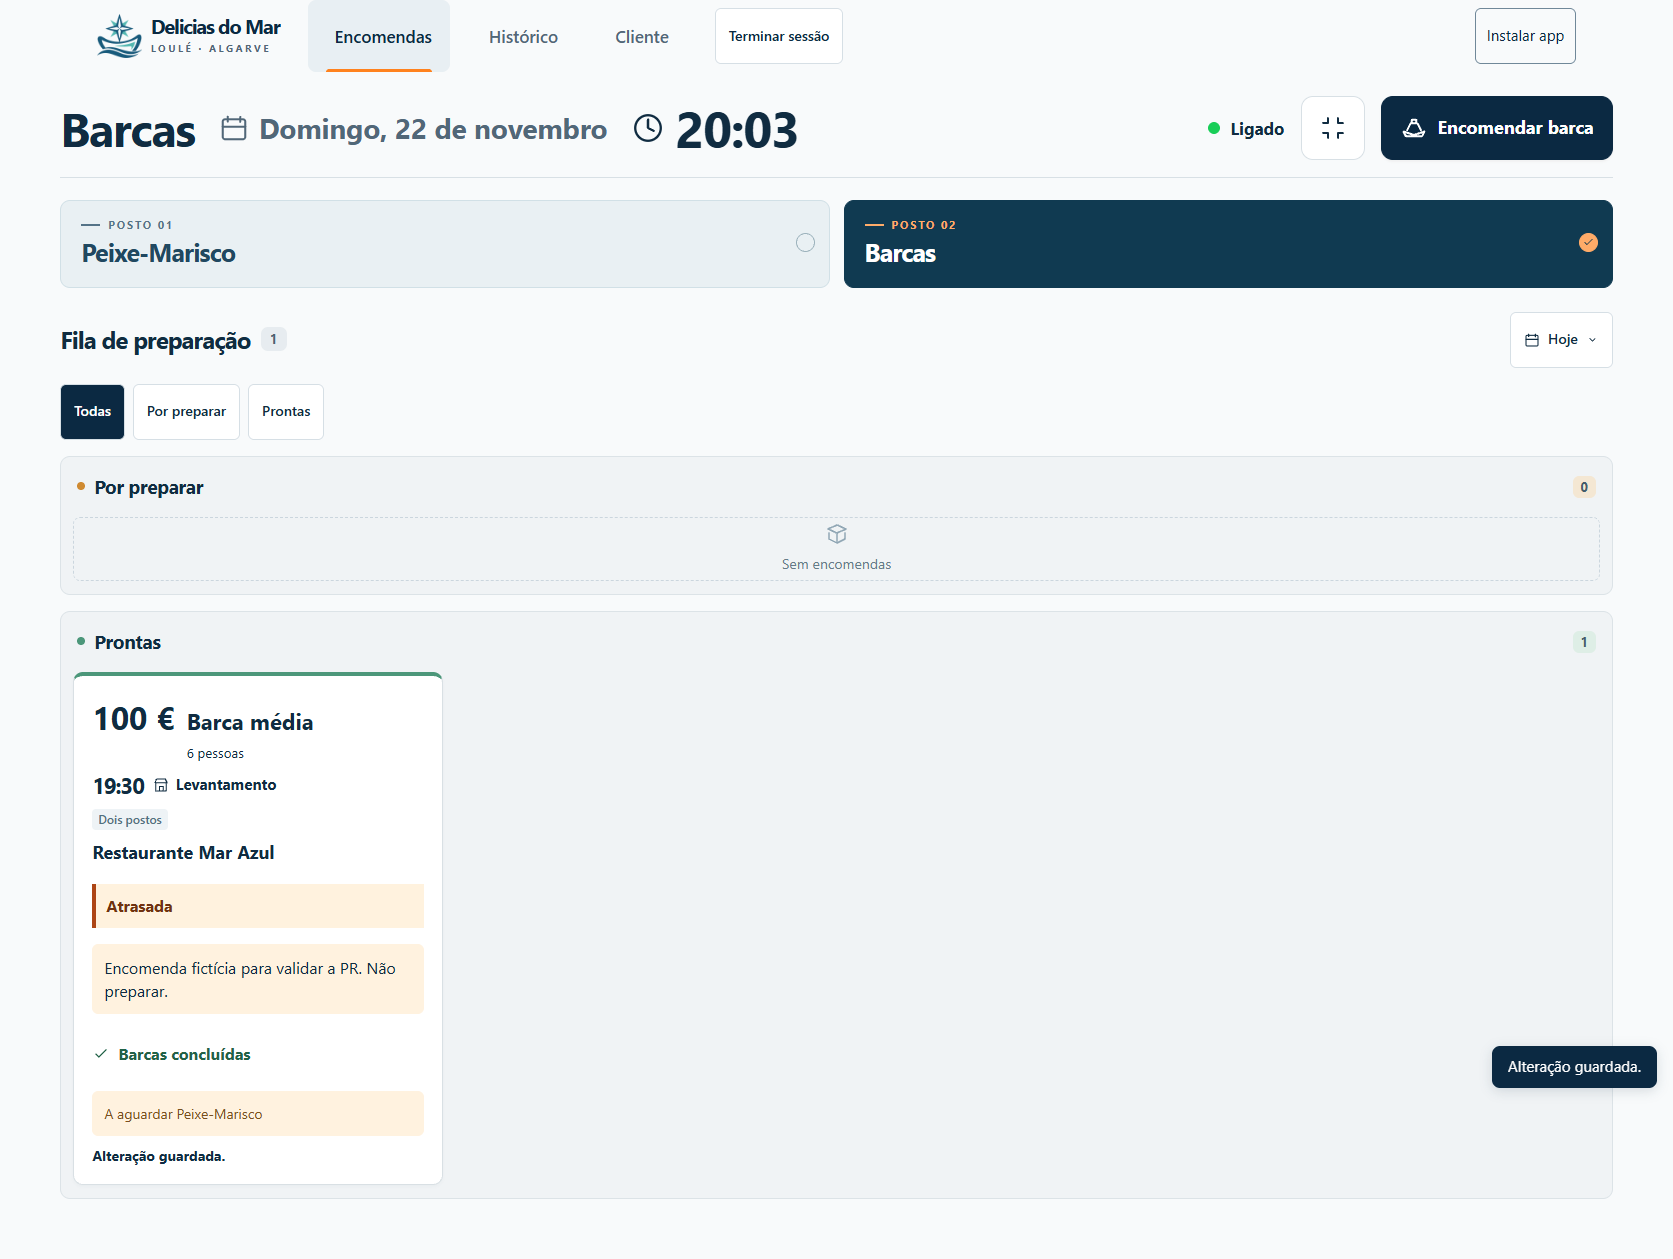
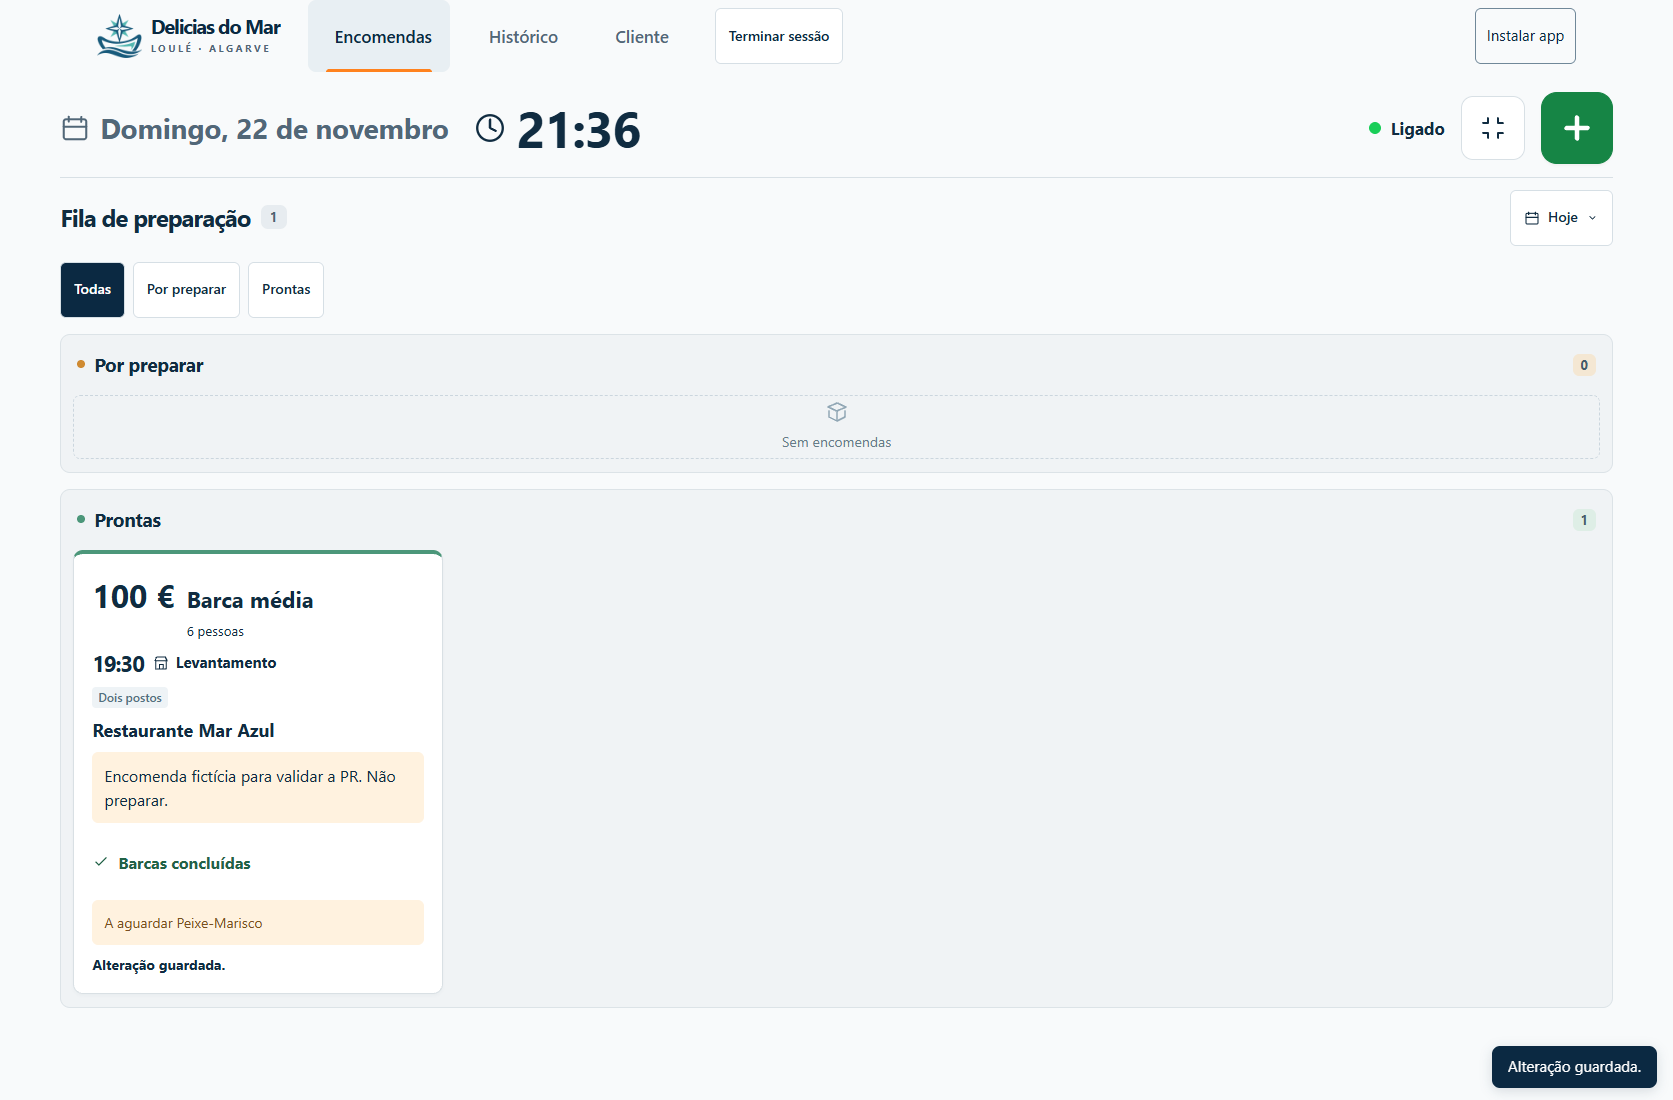
Repor o botão verde de adicionar e simplificar o ecrã inteiro

diff --git a/src/app.js b/src/app.js
@@ -211,7 +211,8 @@ function header(){
  const client=page==="cliente",list=page==="historico";
  const title=client?"Cliente":list?"Histórico":stations[station];
  const boat=!list&&station==="barcas";
- return `<div class="pagehead station-header"><h1>${title}</h1><div class="header-date">${icon("calendar",30)}<span data-today></span></div><div class="header-clock" aria-label="Hora atual em Lisboa">${icon("clock",34)}<time data-clock></time></div><div class="head-actions"><span class="sync" role="status"></span>${!client&&!list?`<button class="btn square" title="${focusMode?"Sair do modo posto":"Modo posto em ecrã inteiro"}" aria-label="${focusMode?"Sair do modo posto":"Modo posto em ecrã inteiro"}" data-act="focus">${icon(focusMode?"shrink":"expand",30)}</button>`:""}${client?"":button(boat?"boat":"bag",boat?"Encomendar barca":"Nova encomenda",boat?"boat-order":"new","primary new-order")}</div></div>`;
+ const newOrderLabel=boat?"Encomendar barca":"Nova encomenda";
+ return `<div class="pagehead station-header">${focusMode?"":`<h1>${title}</h1>`}<div class="header-date">${icon("calendar",30)}<span data-today></span></div><div class="header-clock" aria-label="Hora atual em Lisboa">${icon("clock",34)}<time data-clock></time></div><div class="head-actions"><span class="sync" role="status"></span>${!client&&!list?`<button class="btn square" title="${focusMode?"Sair do modo posto":"Modo posto em ecrã inteiro"}" aria-label="${focusMode?"Sair do modo posto":"Modo posto em ecrã inteiro"}" data-act="focus">${icon(focusMode?"shrink":"expand",30)}</button>`:""}${client?"":`<button type="button" class="btn primary new-order" data-act="${boat?"boat-order":"new"}" aria-label="${newOrderLabel}" title="${newOrderLabel}">${icon("plus",36)}</button>`}</div></div>`;
 }
 function updateClock(){
  const now=new Date();
@@ -298,7 +299,7 @@ function render(){
  document.title=(page==="encomendas"?"Encomendas":page==="cliente"?"Cliente":"Histórico")+" · Delicias do Mar";
  document.querySelectorAll("[data-nav]").forEach(a=>{a.classList.toggle("active",a.dataset.nav===page);if(a.dataset.nav===page)a.setAttribute("aria-current","page");else a.removeAttribute("aria-current");});
  const total=page==="encomendas"?orders.filter(o=>!o.cancelled&&!o.handed&&o.tasks[station]!==undefined).length:orders.length;
- main.innerHTML=header()+(page==="cliente"?clientContent():(page==="encomendas"?stationCards():"")+toolbar(total)+`<div id="results">${page==="encomendas"?boardContent():listContent()}</div>`)+`<footer><span>Delicias do Mar <b>·</b> Loulé</span><span>${icon("waves",19)} Central de encomendas</span></footer>`;
+ main.innerHTML=header()+(page==="cliente"?clientContent():(page==="encomendas"&&!focusMode?stationCards():"")+toolbar(total)+`<div id="results">${page==="encomendas"?boardContent():listContent()}</div>`)+`<footer><span>Delicias do Mar <b>·</b> Loulé</span><span>${icon("waves",19)} Central de encomendas</span></footer>`;
  updateClock();renderSync();
 }
 function rerenderResults(){const el=$("#results");if(el)el.innerHTML=page==="encomendas"?boardContent():listContent();renderSync();}

diff --git a/src/estilo.css b/src/estilo.css
@@ -116,7 +116,9 @@ nav [data-nav],.ticket .ref,.ticket-customer,.task-btns .btn,.global .btn,.list-
 #loginPanel input,#loginPanel button,#signOut {min-height:56px}
 #loginPanel button {width:100%;justify-content:center}
 .session-locked #main,.session-locked nav,.session-locked #networkStatus,.session-locked #dialog,.session-locked #writeStatus,.session-locked #toast,#signOut[hidden],#loginPanel[hidden] {display:none}
-.station-header .btn.primary.new-order{min-height:64px;padding:12px 18px;background:var(--navy);border-color:var(--navy);font-size:18px;gap:10px}
+.station-header .btn.primary.new-order{width:72px;height:72px;padding:0;justify-content:center;background:#168545;border-color:#168545;color:white;border-radius:16px}
+.station-header .btn.new-order .ico{width:36px;height:36px;stroke-width:3}
+.focus .pagehead.station-header{min-height:0;margin-bottom:12px}
 .party-options{display:grid;grid-template-columns:repeat(3,minmax(0,1fr));gap:10px;margin-bottom:20px}
 .party-options button{display:grid;place-content:center;gap:2px;min-height:76px;border:1px solid var(--line);border-radius:8px;background:#f4f7f8;color:var(--ink)}
 .party-options button strong{font-size:28px;line-height:1.1}.party-options button span{font-size:15px}
@@ -128,7 +130,7 @@ nav [data-nav],.ticket .ref,.ticket-customer,.task-btns .btn,.global .btn,.list-
 #qItemForm .field input,#qItemForm .field select,#qItemForm .btn,#qOrderForm .btn{min-height:56px}
 .item-actions{display:flex;gap:10px;flex-wrap:wrap;margin-top:16px}
 .item-actions .btn{flex:1 1 10rem;justify-content:center}
-@media(max-width:690px){.station-header .btn.primary.new-order{min-height:56px;font-size:16px;padding:10px 12px}}
+@media(max-width:690px){.station-header .btn.primary.new-order{width:64px;height:64px}}
 
 /* Filas de preparação: quatro cartões por linha nos ecrãs maiores. */
 .board{grid-template-columns:minmax(0,1fr);overflow-x:visible}
